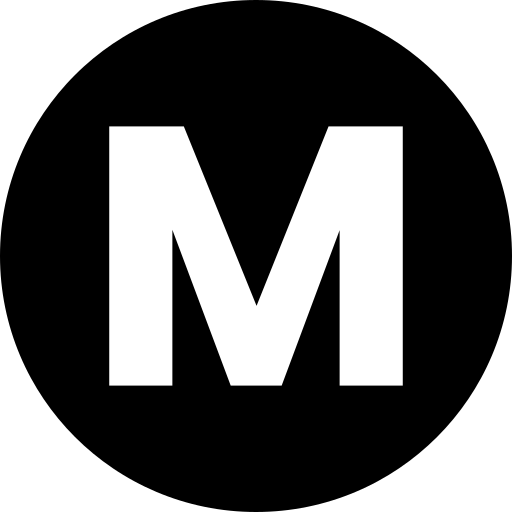
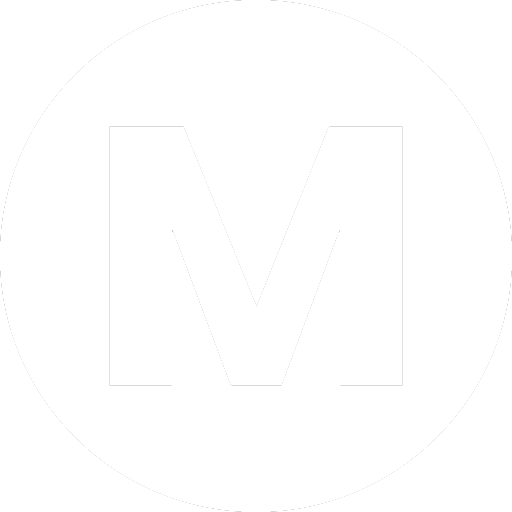
240727 11:40 fix image sizes and footer company info

diff --git a/css/musinsa.css b/css/musinsa.css
@@ -429,7 +429,7 @@ a{
   font-size: 80%;
 }
 
-.static-footer-company-info-elements:active .static-footer-company-info-dropdown-content{
+.static-footer-company-info-elements:hover .static-footer-company-info-dropdown-content{
   display: block;
 }
 
@@ -469,8 +469,9 @@ a{
 }
 
 .footer-icons-image-size-set{
-  width: 50px;
-  height: 50px;
+  width: 30px;
+  height: 30px;
+  filter: opacity(0.5) drop-shadow(0 0 0 rgb(0, 0, 0));
 }
 
 /* ------------------------------------------------------기타 메뉴 관련----------------------------------------------------------- */
